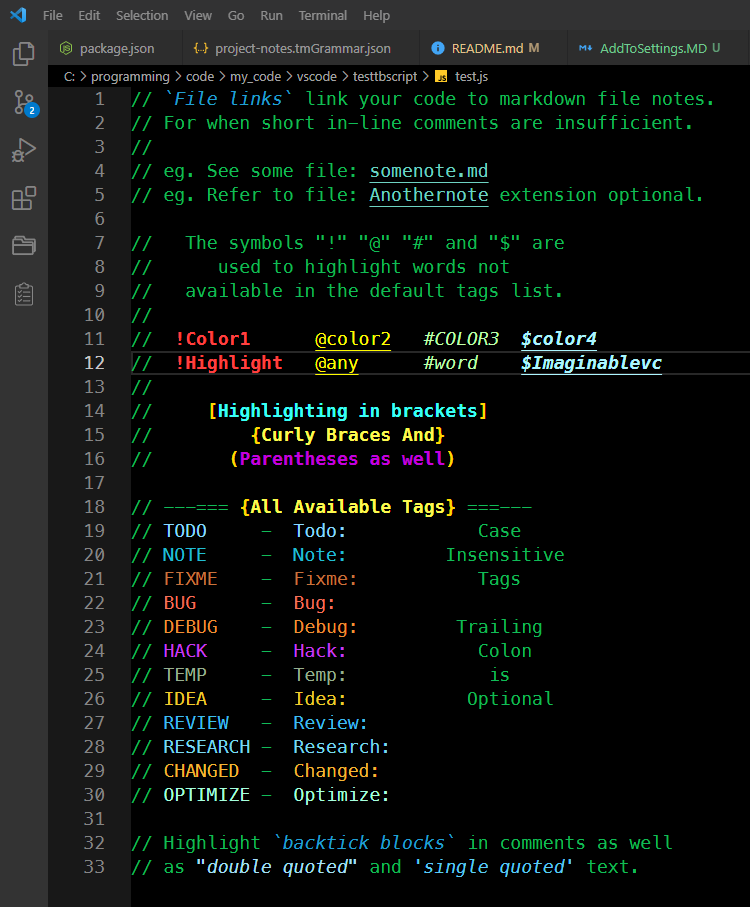
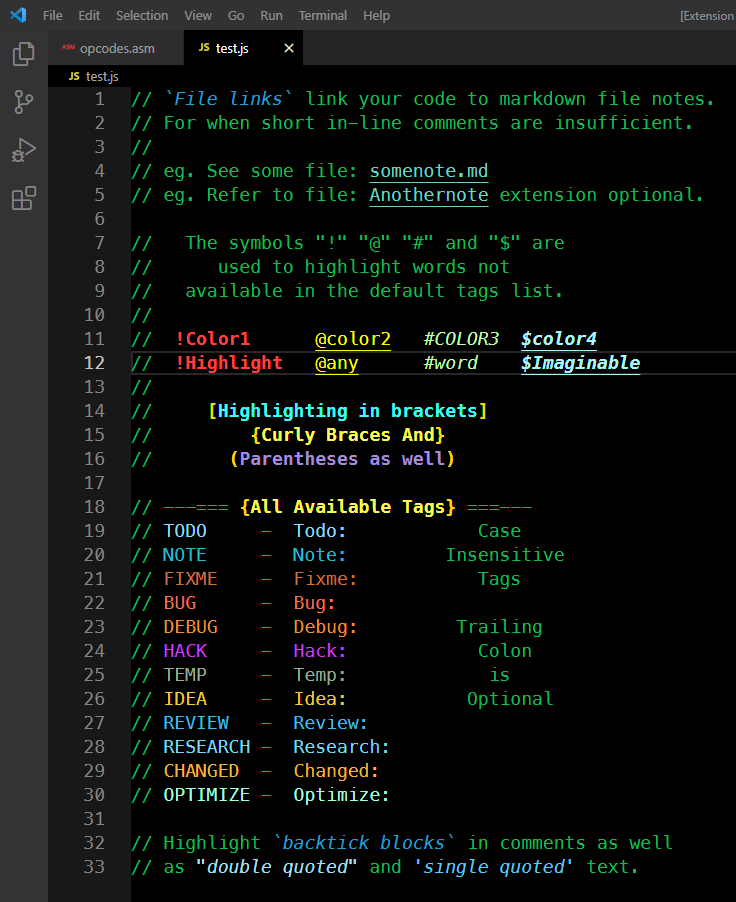
Release v0.0.3

diff --git a/README.md b/README.md
@@ -8,6 +8,9 @@ Adds inline file links to notes in markdown files.
 
 Adds TODO syntax highlighting support to your source files.
 
+Note: This extension should work with any programming language that supports comments. It has been tested with the following languages by file extension...
+
+`asm bat cmd coffee css go html ini js jsx less md php py rb scss ts tbs tsx vue`
 
 ## Features
 - Link to project note files in Markdown format.
@@ -69,7 +72,6 @@ The line `"fontStyle": ""` sets the font styling. Changing this to `"fontStyle":
           "foreground": "#89daff",
           "fontStyle": ""
         }
-      },
 ````
 
 ## To Do

diff --git a/RELEASE.md b/RELEASE.md
@@ -1,7 +1,10 @@
 # Release Notes
-## v0.0.2
-- Added "Project Notes: Open Existing Note (Edit Mode)" Command
-- Added "Project Notes: Open Existing Note (Preview Mode)" Command
+
+## [0.0.3] 2022-01-08
+- Removed unnecessary lines from addtosettings.txt
+- Updated package.json
+- Updated example screenshot
+- Updated Readme
 
 For a full list of changes, please see the projects [Changelog](CHANGELOG.md) file.
 

diff --git a/CHANGELOG.md b/CHANGELOG.md
@@ -1,5 +1,11 @@
 # Change Log
 
+## [0.0.3] 2022-01-08
+- Removed unnecessary lines from addtosettings.txt
+- Updated package.json
+- Updated example screenshot
+- Updated Readme
+
 ## [0.0.2]
 
 - Added "Project Notes: Open Existing Note (Edit Mode)" Command
